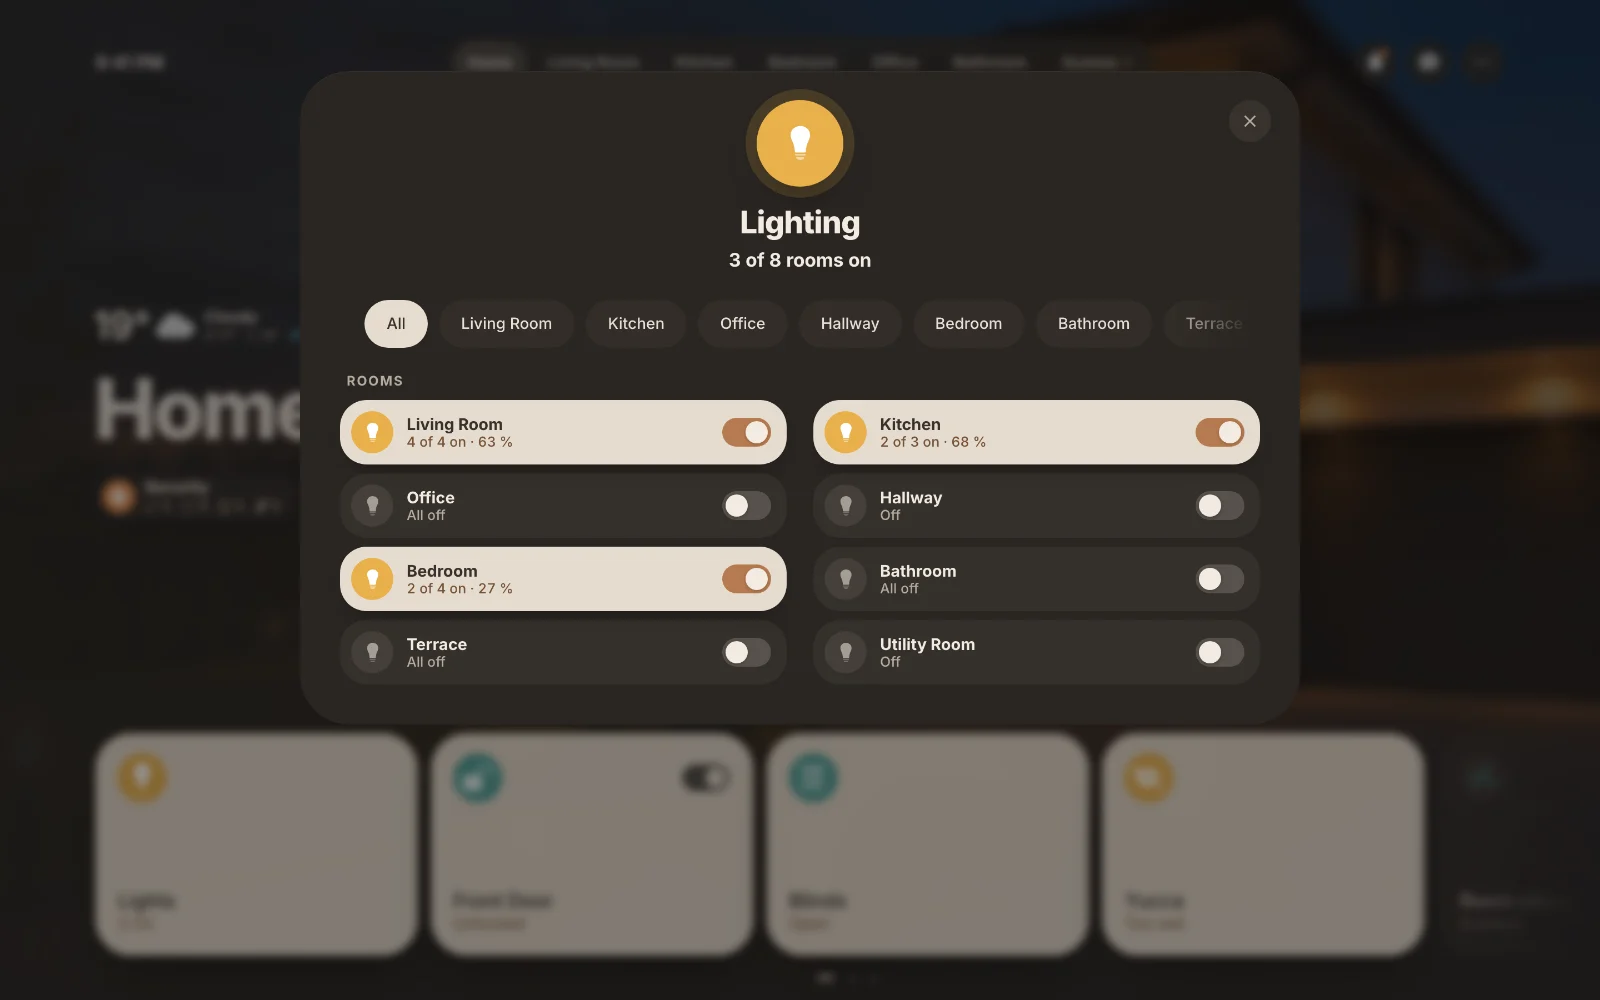
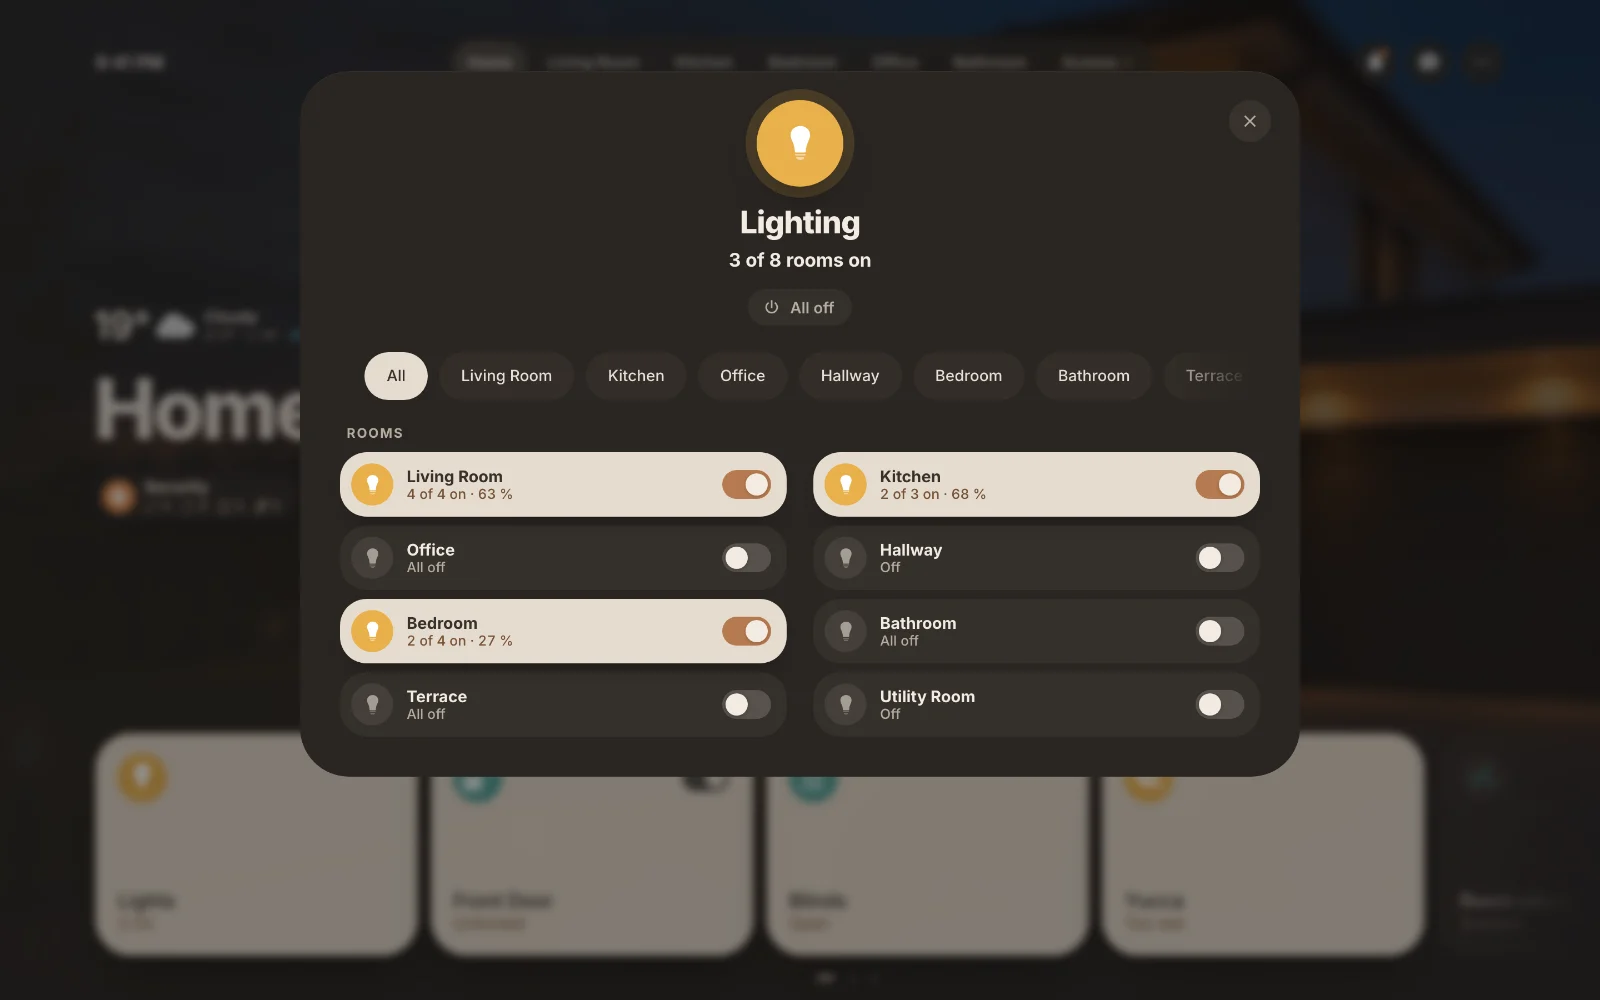
Website-Bild Licht-Popup mit "Alles aus", Changelog 1.1.0 ergänzt
casora-popup-lights hell und dunkel neu aus dem Demo-Haus (gleicher
Ausschnitt, Theme Casora), jetzt mit dem Knopf "Alles aus". Changelog
1.1.0 nennt auch das Haus-Popup mit Rückfrage.

diff --git a/CHANGELOG.de.md b/CHANGELOG.de.md
@@ -51,6 +51,7 @@ Das größte Update seit Casora 1.0. Neu sind das Studio, in dem die Vorschau se
 
 #### Popups, Energie und Geräte
 - **Licht-Popup eines Raums:** neuer Knopf „Alles aus“. Das Popup einer einzelnen Lampe zeigt alle Leuchten des Raums.
+- **Licht-Popup für das ganze Haus (Startseite):** „Alles aus“ gibt es auch hier, mit Rückfrage vor dem Ausschalten. Lichter, die man nicht sieht, bleiben unberührt.
 - **Energie-Popup:** Die größten Verbraucher (bis zu 5) erscheinen auch ohne Zuordnung im Studio. Casora findet sie selbst und lässt Haus-, Netz-, Solar- und Akkuwerte weg. Jeder Sensor der Raumsumme steht mit seinem Wert im Popup.
 - **Assist-Vorschläge aus deinem Zuhause:** passend zur Tageszeit, mit deinen Raumnamen und zuerst dort, wo gerade etwas zu tun ist (offenes Fenster, Licht an, Tür entriegelt). Die Spracheingabe nutzt die bevorzugte Assist-Pipeline deines Hauses.
 - **Aquarium-Kachel:** neue Einstellung „Akku-Hinweise“ (Automatisch, Immer, Nie). Gibt es schon eine Batterien-Kachel, meldet die Aquarium-Kachel einen schwachen Fühler-Akku nicht noch einmal. Leck und Temperaturwarnung meldet sie wie bisher.

diff --git a/custom_components/casora/CHANGELOG.de.md b/custom_components/casora/CHANGELOG.de.md
@@ -51,6 +51,7 @@ Das größte Update seit Casora 1.0. Neu sind das Studio, in dem die Vorschau se
 
 #### Popups, Energie und Geräte
 - **Licht-Popup eines Raums:** neuer Knopf „Alles aus“. Das Popup einer einzelnen Lampe zeigt alle Leuchten des Raums.
+- **Licht-Popup für das ganze Haus (Startseite):** „Alles aus“ gibt es auch hier, mit Rückfrage vor dem Ausschalten. Lichter, die man nicht sieht, bleiben unberührt.
 - **Energie-Popup:** Die größten Verbraucher (bis zu 5) erscheinen auch ohne Zuordnung im Studio. Casora findet sie selbst und lässt Haus-, Netz-, Solar- und Akkuwerte weg. Jeder Sensor der Raumsumme steht mit seinem Wert im Popup.
 - **Assist-Vorschläge aus deinem Zuhause:** passend zur Tageszeit, mit deinen Raumnamen und zuerst dort, wo gerade etwas zu tun ist (offenes Fenster, Licht an, Tür entriegelt). Die Spracheingabe nutzt die bevorzugte Assist-Pipeline deines Hauses.
 - **Aquarium-Kachel:** neue Einstellung „Akku-Hinweise“ (Automatisch, Immer, Nie). Gibt es schon eine Batterien-Kachel, meldet die Aquarium-Kachel einen schwachen Fühler-Akku nicht noch einmal. Leck und Temperaturwarnung meldet sie wie bisher.

diff --git a/CHANGELOG.md b/CHANGELOG.md
@@ -51,6 +51,7 @@ The biggest update since Casora 1.0. It brings a new Studio in which the preview
 
 #### Popups, energy and devices
 - **Light popup of a room:** new "All off" button. The popup of a single lamp shows all lights of the room.
+- **Light popup for the whole home (home page):** "All off" is here too and asks before turning everything off. Lights you cannot see stay untouched.
 - **Energy popup:** the biggest consumers (up to 5) show even without picking them in the Studio. Casora finds them itself and leaves out house, grid, solar and battery values. Every sensor in a room's sum is listed with its value.
 - **Assist suggestions from your home:** matched to the time of day, using your room names and starting with what needs attention right now (open window, lights on, door unlocked). Voice input uses your home's preferred Assist pipeline.
 - **Aquarium tile:** new "Battery hints" setting (Automatic, Always, Never). If there is already a Batteries tile, the aquarium tile no longer reports a weak sensor battery a second time. Leaks and temperature warnings are reported as before.

diff --git a/custom_components/casora/CHANGELOG.md b/custom_components/casora/CHANGELOG.md
@@ -51,6 +51,7 @@ The biggest update since Casora 1.0. It brings a new Studio in which the preview
 
 #### Popups, energy and devices
 - **Light popup of a room:** new "All off" button. The popup of a single lamp shows all lights of the room.
+- **Light popup for the whole home (home page):** "All off" is here too and asks before turning everything off. Lights you cannot see stay untouched.
 - **Energy popup:** the biggest consumers (up to 5) show even without picking them in the Studio. Casora finds them itself and leaves out house, grid, solar and battery values. Every sensor in a room's sum is listed with its value.
 - **Assist suggestions from your home:** matched to the time of day, using your room names and starting with what needs attention right now (open window, lights on, door unlocked). Voice input uses your home's preferred Assist pipeline.
 - **Aquarium tile:** new "Battery hints" setting (Automatic, Always, Never). If there is already a Batteries tile, the aquarium tile no longer reports a weak sensor battery a second time. Leaks and temperature warnings are reported as before.
